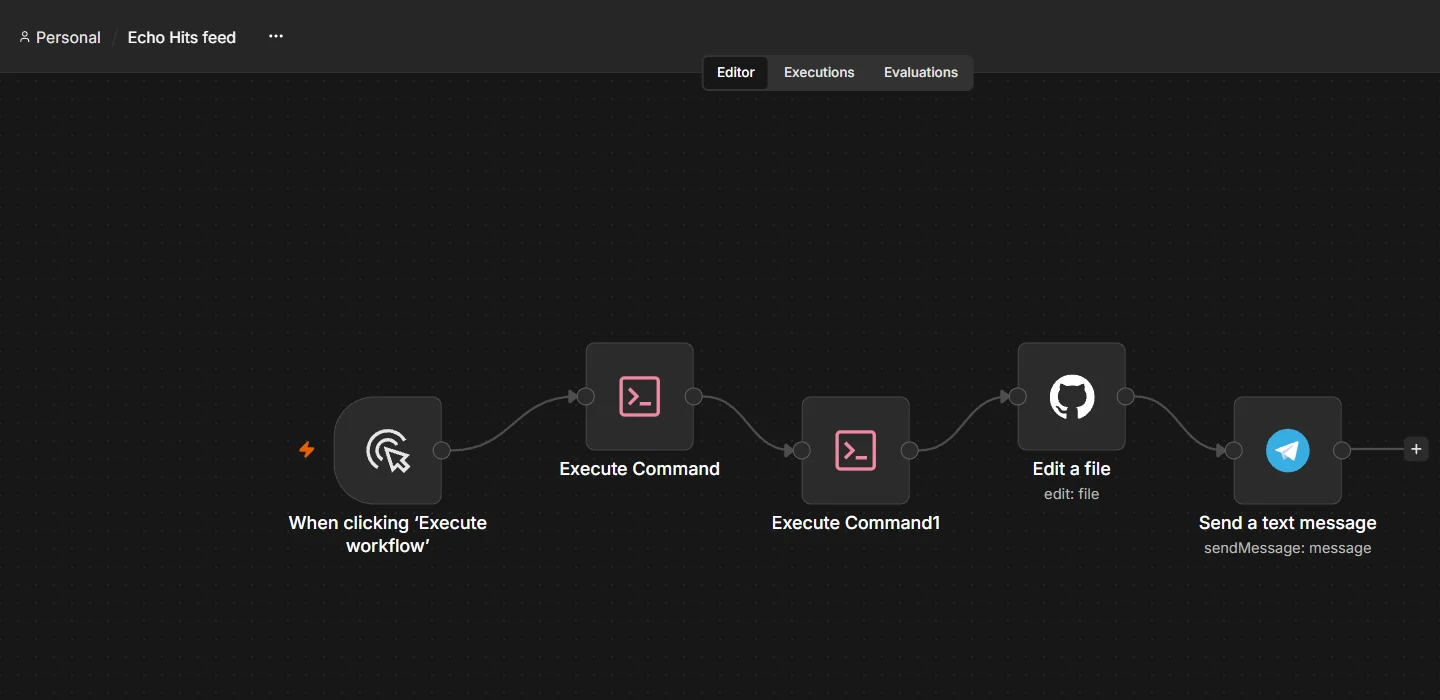
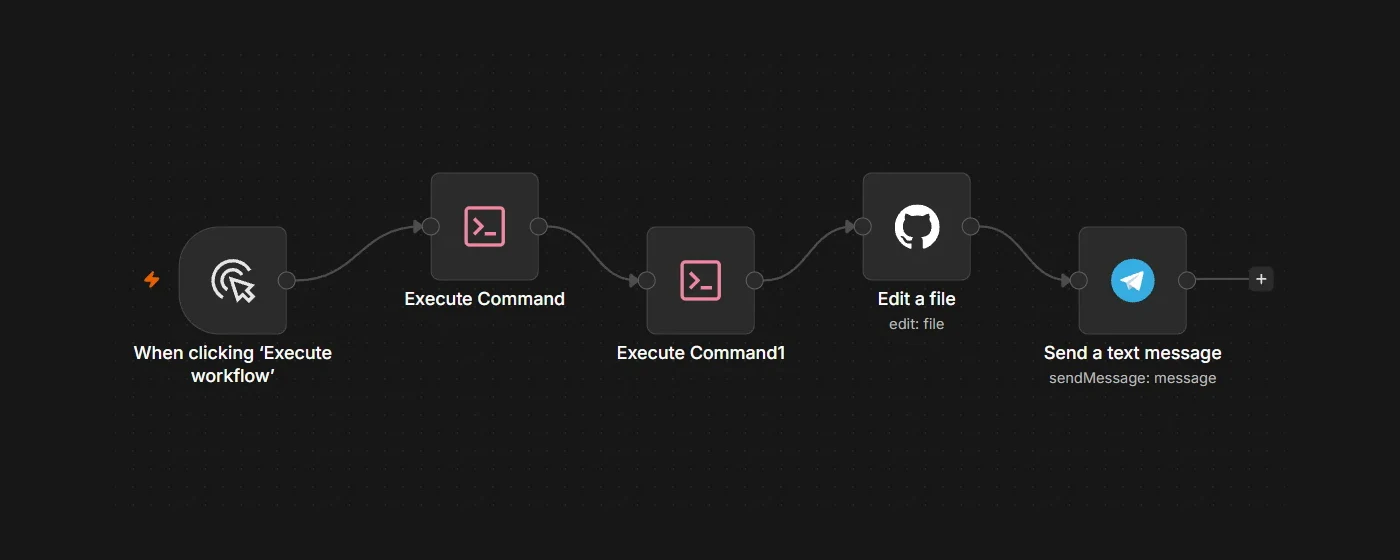
Centre n8n screenshot; header shows name only, no KT mark

diff --git a/js/core.js b/js/core.js
@@ -760,8 +760,7 @@
     var header = KT.h('header', { class: 'nav', id: 'site-header', 'data-theme': 'paper' });
 
     var brand = KT.h('a', { class: 'nav__brand', href: home ? '#top' : 'index.html', 'aria-label': KT.t('nav.home', null, { name: p.name || 'KT' }) },
-      KT.h('span', { class: 'nav__mono', text: p.short || 'KT' }),
-      p.name ? KT.h('span', { class: 'nav__name', text: p.name }) : null
+      KT.h('span', { class: 'nav__name', text: p.name || 'Klim Tertychnyi' })
     );
 
     var list = KT.h('ul');
@@ -795,7 +794,7 @@
       p.cv ? KT.h('a', { href: p.cv, download: '', text: KT.t('cv.download') }) : null,
       KT.langSwitch('menu__lang')
     );
-    menu.append(KT.h('div', { class: 'menu__top' }, KT.h('span', { class: 'nav__mono', text: p.short || 'KT' }), closeBtn), mlist, mfoot);
+    menu.append(KT.h('div', { class: 'menu__top' }, KT.h('span', { class: 'nav__name', text: p.name || 'Klim Tertychnyi' }), closeBtn), mlist, mfoot);
     d.body.appendChild(menu);
 
     var lastFocus = null;

diff --git a/content/site.js b/content/site.js
@@ -268,7 +268,7 @@ Reply STRICTLY in JSON (no text outside the JSON, no \`\`\`), with the keys:
             { name: 'APPROVE', tool: 'n8n + Telegram', desc: 'One run takes about 10–15 minutes: n8n executes the generator, builds the feed and sends a report to the Telegram bot. The feed goes live only after I tap Approve.' },
             { name: 'PUBLISH', tool: 'Prom.ua', desc: 'Once approved, Prom.ua imports the feed by URL and pulls the photos itself.' }
           ],
-          media: { type: 'image', src: 'assets/img/cases/vinyl/n8n-workflow.webp', poster: '', alt: 'The n8n workflow behind one feed run', ratio: '1440/700', slot: '', spec: '' }
+          media: { type: 'image', src: 'assets/img/cases/vinyl/n8n-workflow.webp', poster: '', alt: 'The n8n workflow behind one feed run', ratio: '1400/560', slot: '', spec: '' }
         },
         {
           type: 'prompt', label: 'PROMPT RECEIPT', tool: 'Claude Sonnet via API (prompt translated from Ukrainian)',

diff --git a/css/base.css b/css/base.css
@@ -302,7 +302,7 @@ a.nav__status:hover { color: var(--accent); }
 .menu__lang { margin-top: 8px; }
 
 @media (max-width: 1199px) { .nav__status { display: none; } }
-@media (min-width: 1024px) and (max-width: 1279px) { .nav__name { display: none; } }
+@media (min-width: 1024px) and (max-width: 1279px) { .nav__counter { display: none; } }
 @media (max-width: 1023px) { .nav__lang { display: none; } }
 @media (max-width: 1023px) {
   .nav { grid-template-columns: auto 1fr auto; }
@@ -311,7 +311,7 @@ a.nav__status:hover { color: var(--accent); }
   .nav__counter { grid-column: 2; }
   .nav__menu-btn { display: inline-flex; }
 }
-@media (max-width: 479px) { .nav__name, .nav__menu-txt { display: none; } }
+@media (max-width: 479px) { .nav__menu-txt { display: none; } }
 
 /* ------------------------------------------------------------ mobile menu */
 .menu {
